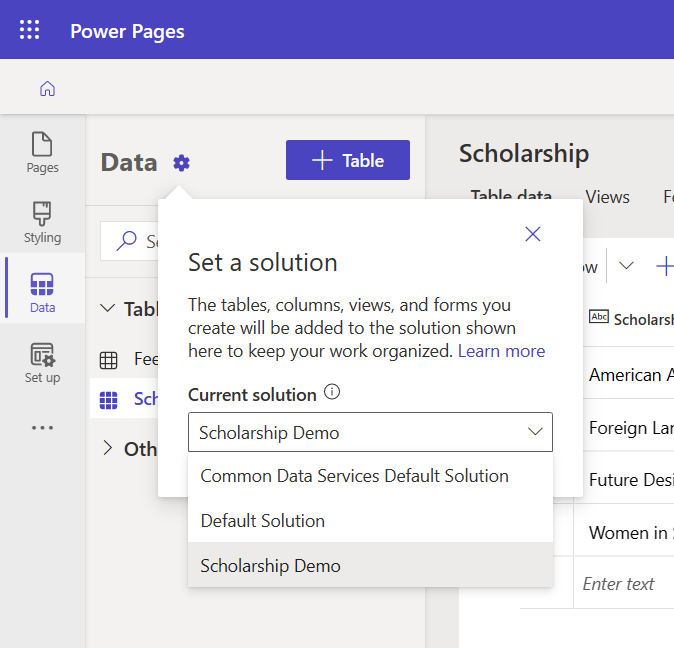
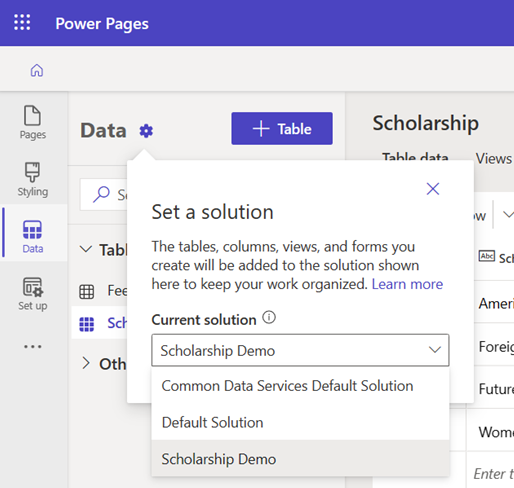
image edits

diff --git a/power-pages-docs/getting-started/use-data-workspace.md b/power-pages-docs/getting-started/use-data-workspace.md
@@ -17,7 +17,7 @@ contributors:
 
 With the **Data** workspace, you can easily visualize and manage business data for the site with tables, forms, and lists. All the data and changes are stored in Microsoft Dataverse. You can create and edit tables for the site, and create new (or edit existing) model-driven forms and views.
 
-:::image type="content" source="media/data-workspace/left_data_pane.png" alt-text="Data workspace table designer.":::
+:::image type="content" source="media/data-workspace/left-data-pane.png" alt-text="Data workspace table designer.":::
 
 Makers can create basic forms, advanced forms, and lists by using forms and views created in the Data workspace.
 
@@ -25,7 +25,7 @@ Makers can create basic forms, advanced forms, and lists by using forms and view
 
 Data workspace left pane settings feature allows you to select any unmanaged solution where changes made in Data workspace get added.  Newly created table, column, forms, and views will get added to the selected solution.  Newly created tables and columns will get the prefix of the selected solution's publisher. By default, all changes are saved in the Common Data Services Default Solution.  To change this setting, choose the dropdown and select any unmanaged solution in the environment.  
 
-:::image type="content" source="media/data-workspace/set_solution.png" alt-text="The set a solution view allows makers to choose a solution from a dropdown menu of options.":::
+:::image type="content" source="media/data-workspace/set-solution.png" alt-text="The set a solution view allows makers to choose a solution from a dropdown menu of options.":::
 
 For more information, go to [Solution concepts](/power-platform/alm/solution-concepts-alm).
 
